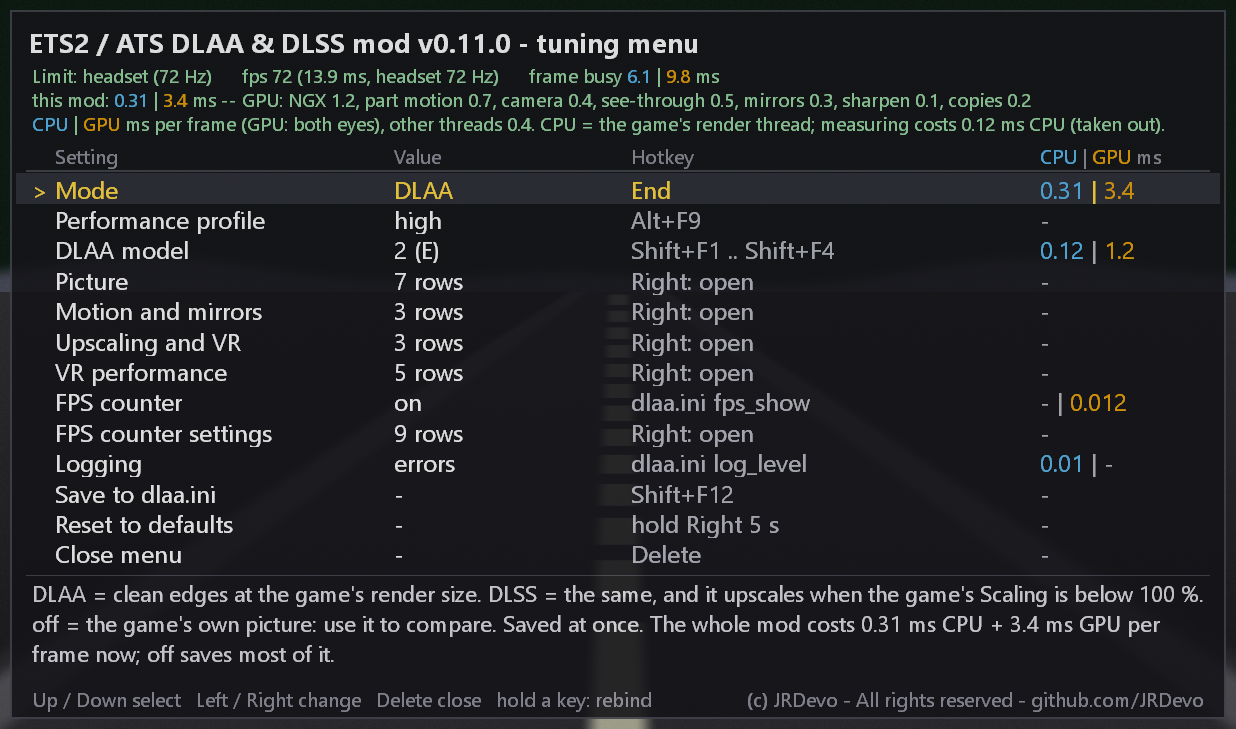
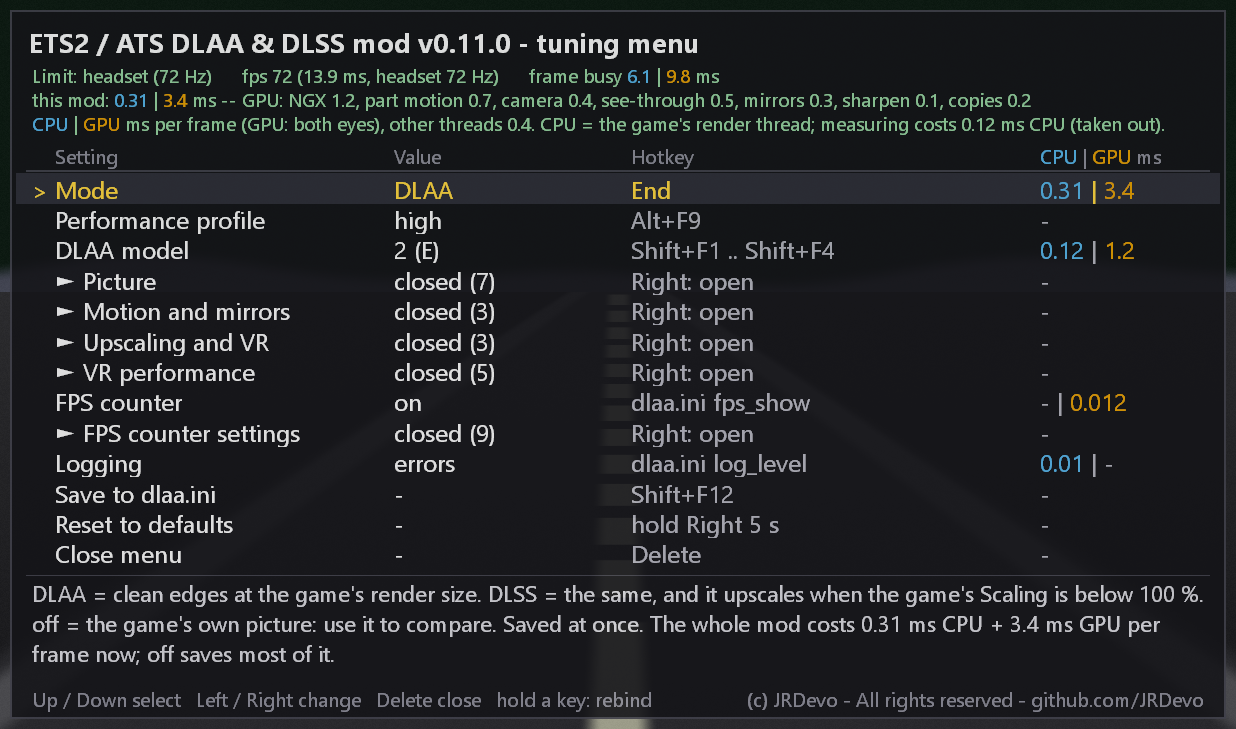
Phase 46b: menu group headers show an arrow (closed / open) and the state as 'closed (N)' / 'open'; group rows indented; README images regenerated

diff --git a/src/inject.cpp b/src/inject.cpp
@@ -16494,7 +16494,8 @@ void MenuResetDecorate(TuningMenu::Panel& p, int sel) {
 // One row: name, the hotkey text (+ "  (VR only)" / "  (flat only)" tag), greyed = not applicable now. The value is set by the caller.
 void MenuRow(TuningMenu::Panel& p, int id, const wchar_t* name, const char* keys, const char* tag, bool greyed) {
     TuningMenu::Row& r = p.rows[id];
-    wcsncpy_s(r.name, name, _TRUNCATE);
+    if (MenuRowGroup(id) >= 0) swprintf(r.name, sizeof(r.name) / sizeof(r.name[0]), L"    %ls", name);   // phase 46b: a group's
+    else                       wcsncpy_s(r.name, name, _TRUNCATE);                                             // rows are indented
     char kb[128];
     if (tag) snprintf(kb, sizeof(kb), "%s  (%s)", keys, tag);
     else     snprintf(kb, sizeof(kb), "%s", keys);
@@ -16525,10 +16526,12 @@ void MenuBuildPanel(TuningMenu::Panel& p) {
     auto groupRow = [&](int id, const wchar_t* name) {
         const bool o = MenuGrpOpen(id);
         snprintf(k, sizeof(k), "%s: %s", o ? snLeft : snRight, o ? "close" : "open");
-        MenuRow(p, id, name, k, nullptr, false);
-        const int gi = MenuGroupIndex(id);                // phase 43: closed = "N rows" (the group's size), open = "shown"
-        if (o || gi < 0) swprintf(p.rows[id].value, kV, L"%ls", o ? L"shown" : L"...");
-        else             swprintf(p.rows[id].value, kV, L"%d rows", kMenuGroups[gi].last - kMenuGroups[gi].header);
+        wchar_t hn[48];                                   // phase 46b: an arrow shows the state (WGL4 glyphs: in Segoe UI)
+        swprintf(hn, 48, L"%lc %ls", o ? (wchar_t)0x25BC : (wchar_t)0x25BA, name);
+        MenuRow(p, id, hn, k, nullptr, false);
+        const int gi = MenuGroupIndex(id);                // closed = "closed (N)" (the group's size), open = "open"
+        if (o || gi < 0) swprintf(p.rows[id].value, kV, L"%ls", o ? L"open" : L"closed");
+        else             swprintf(p.rows[id].value, kV, L"closed (%d)", kMenuGroups[gi].last - kMenuGroups[gi].header);
     };
 
     MenuRow(p, MR_MODE, L"Mode", KeyName(KA_MODE_CYCLE), nullptr, false);

diff --git a/tests/menu_shot.cpp b/tests/menu_shot.cpp
@@ -137,13 +137,15 @@ static void BuildPanel(TuningMenu::Panel& p, const bool open[6], const wchar_t* 
         const E& e = kRows[i];
         if (e.grp >= 0 && !e.hdr && !open[e.grp]) continue;       // a collapsed group's children are not in the panel
         TuningMenu::Row& r = p.rows[nv];
-        wcsncpy_s(r.name, e.name, _TRUNCATE);
+        if (e.hdr)          swprintf(r.name, 48, L"%lc %ls", open[e.grp] ? (wchar_t)0x25BC : (wchar_t)0x25BA, e.name);   // as MenuBuildPanel
+        else if (e.grp >= 0) swprintf(r.name, 48, L"    %ls", e.name);                                         // (phase 46b)
+        else                wcsncpy_s(r.name, e.name, _TRUNCATE);
         wcsncpy_s(r.keys, e.keys, _TRUNCATE);
         r.greyed = e.greyed ? 1 : 0;
         if (e.hdr) {
             int n = 0;
             for (int j = 0; j < kNRows; ++j) if (kRows[j].grp == e.grp && !kRows[j].hdr) ++n;
-            if (open[e.grp]) wcsncpy_s(r.value, L"shown", _TRUNCATE); else swprintf(r.value, 40, L"%d rows", n);
+            if (open[e.grp]) wcsncpy_s(r.value, L"open", _TRUNCATE); else swprintf(r.value, 40, L"closed (%d)", n);
             wcsncpy_s(r.keys, open[e.grp] ? L"Left: close" : L"Right: open", _TRUNCATE);
         } else {
             wcsncpy_s(r.value, e.value, _TRUNCATE);
